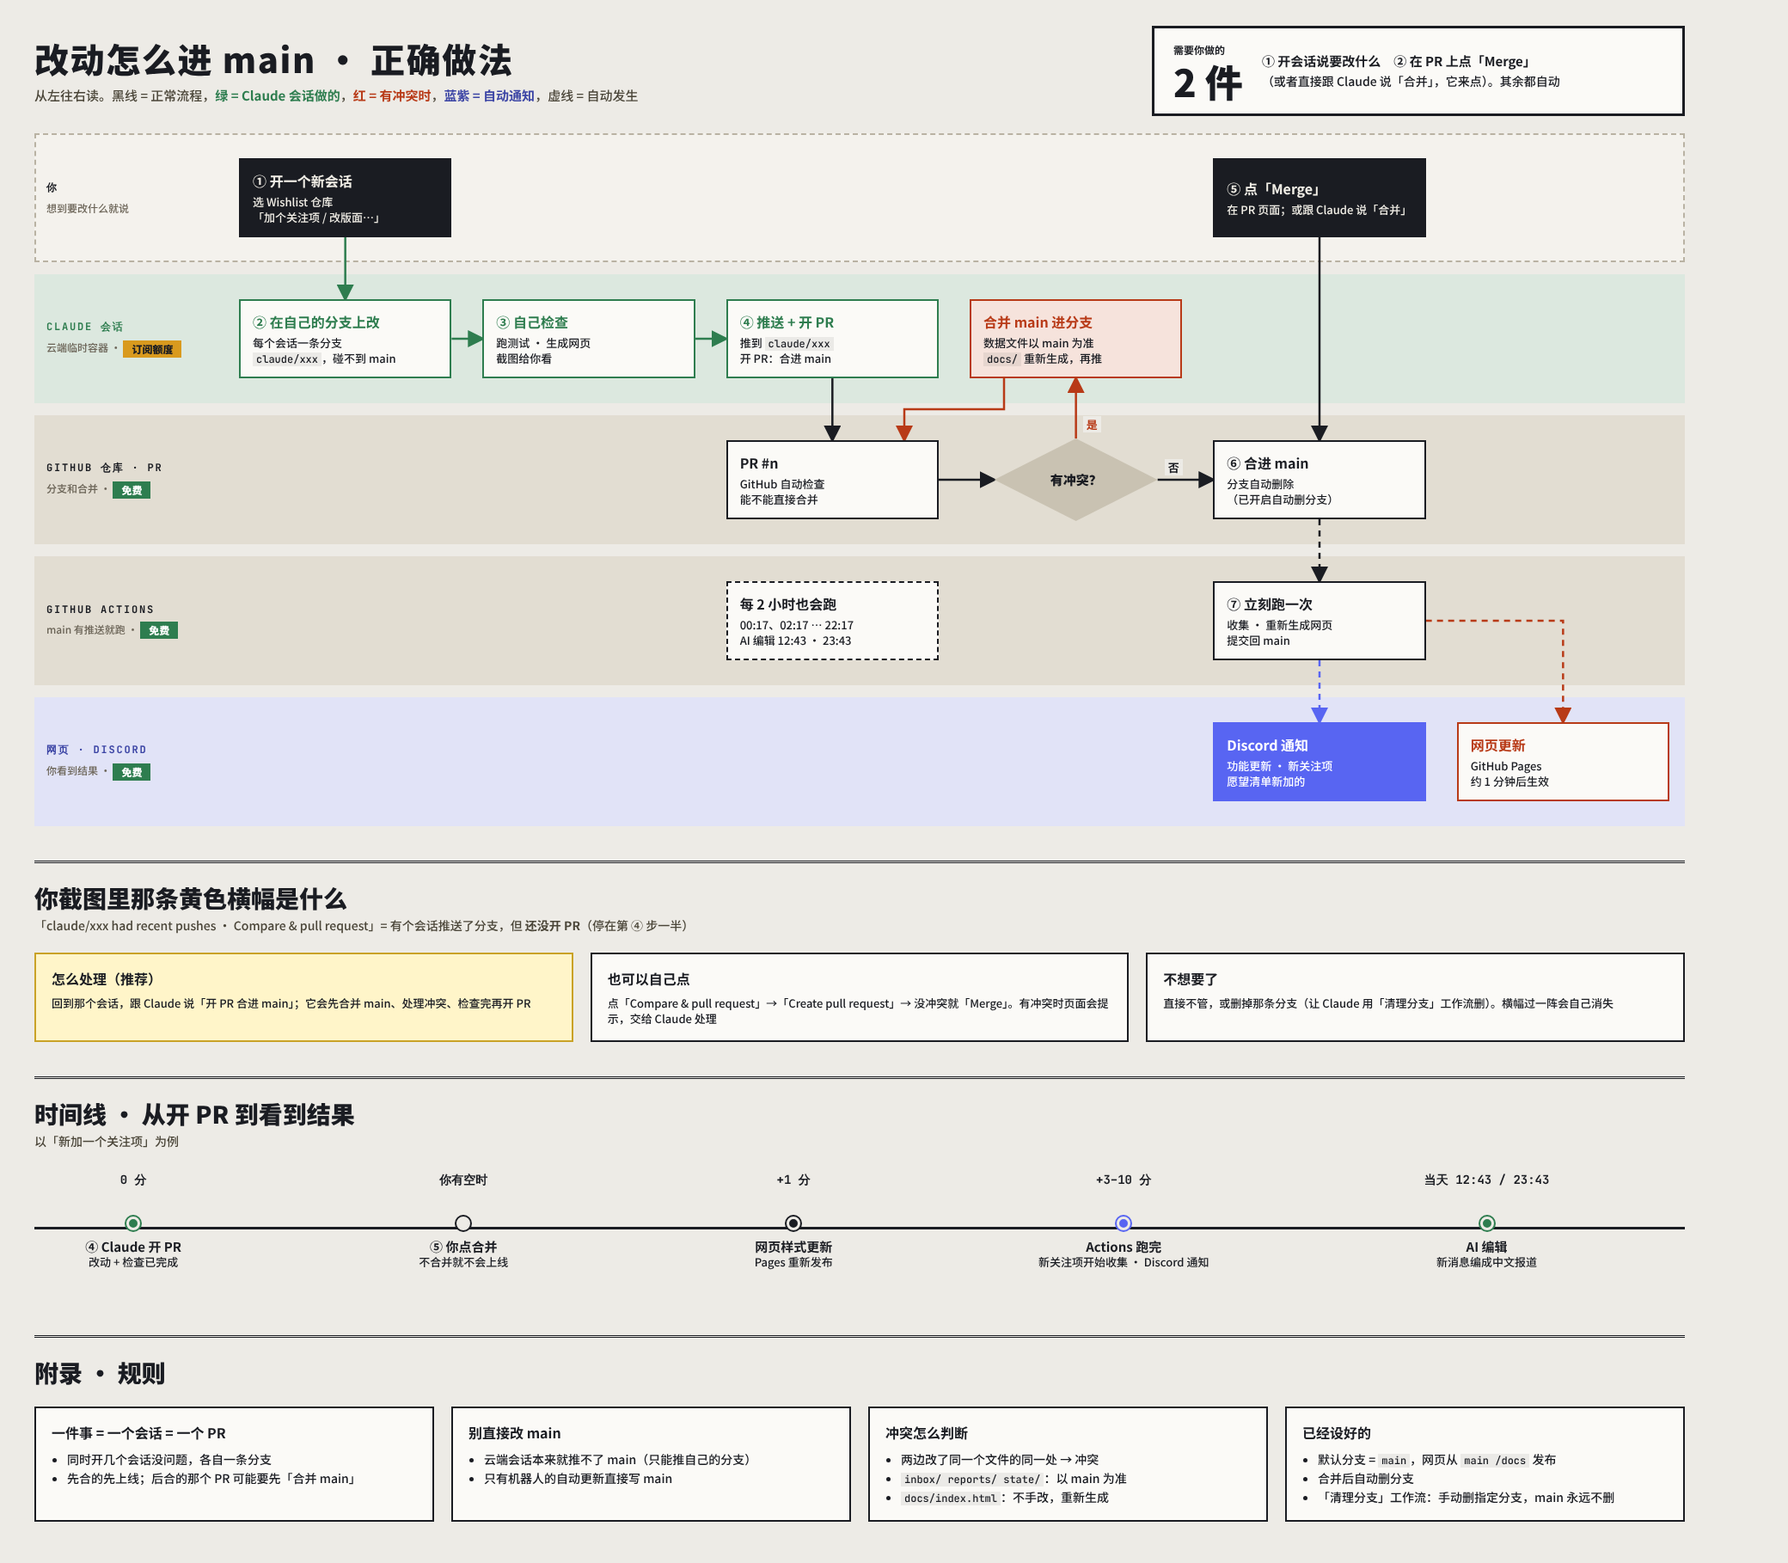
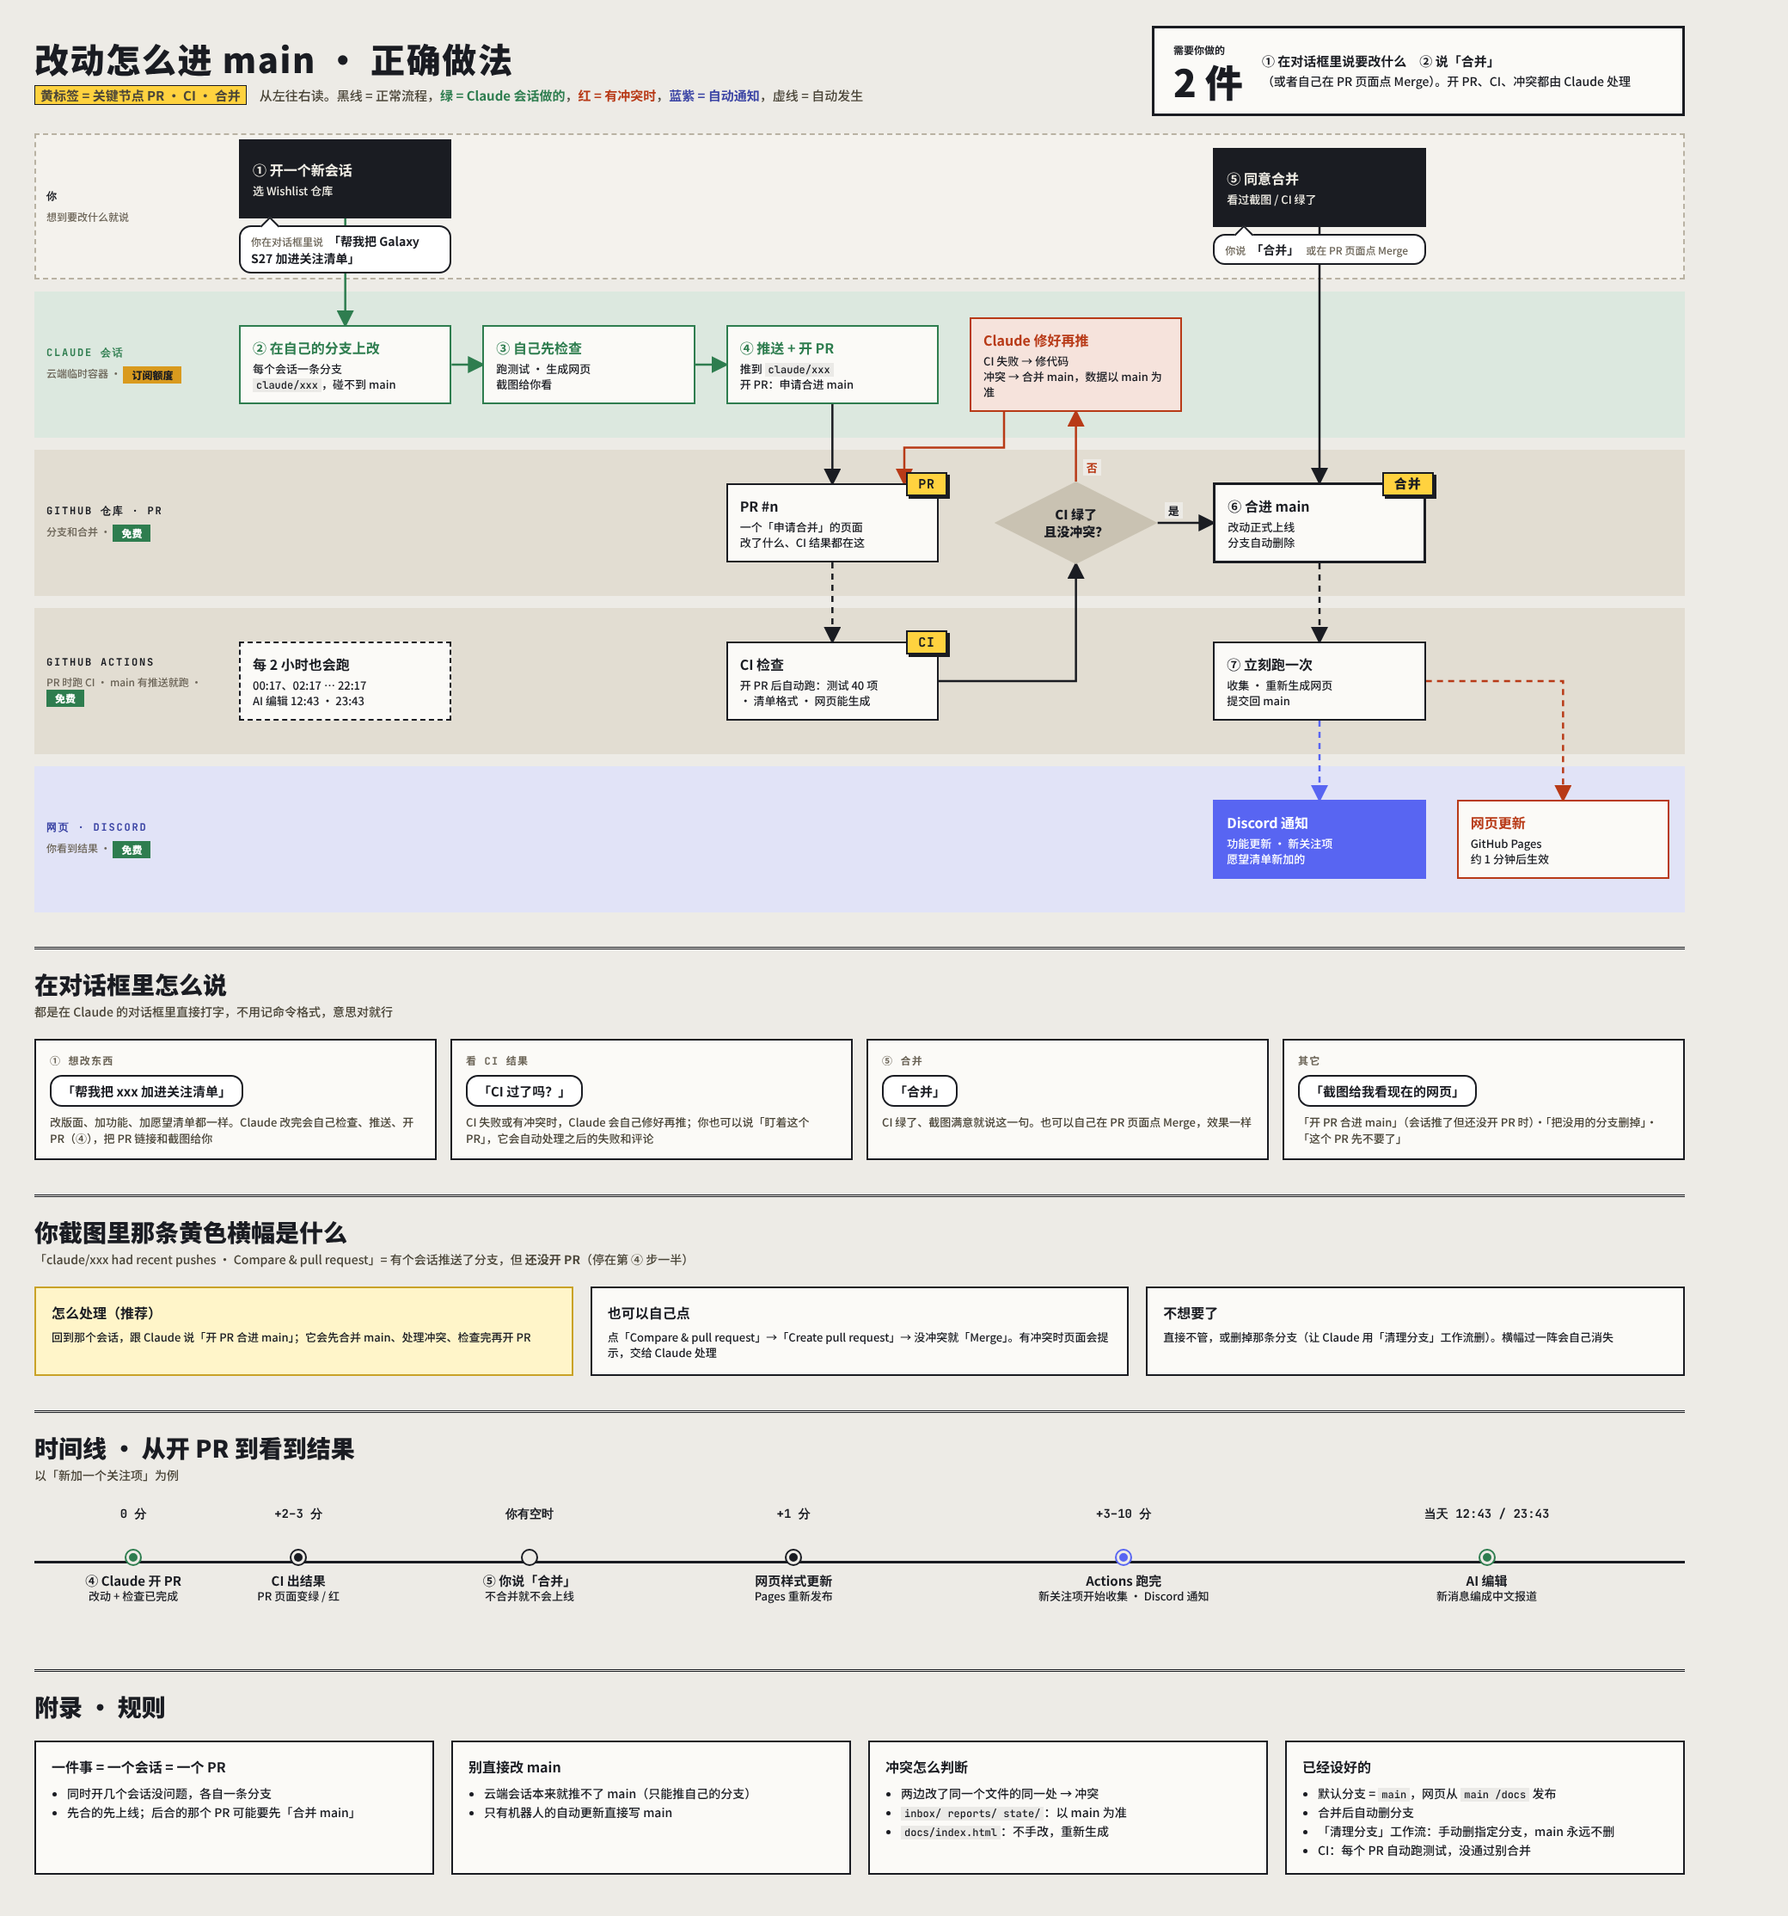
流程图标出关键节点（PR · CI · 合并）和你在对话框里说的话；新增 CI：每个 PR 自动跑测试、检查清单格式和网页生成
Claude-Session: https://claude.ai/code/session_01FYJEZVJg5QvtsQfdSyfDee

diff --git a/docs/design/pr-flow.html b/docs/design/pr-flow.html
@@ -21,7 +21,7 @@ h1{margin:0;font-size:40px;font-weight:900;letter-spacing:.04em;line-height:48px
 .tag{display:inline-block;padding:1px 10px;font-size:12px;font-weight:900;line-height:18px;color:#fff;background:var(--green);vertical-align:middle}
 .tag.gold{background:var(--gold);color:var(--ink)}
 .flow{position:relative;margin-top:34px}
-.lanes{display:grid;grid-template-columns:220px repeat(6,1fr);grid-auto-rows:150px;row-gap:14px}
+.lanes{display:grid;grid-template-columns:220px repeat(6,1fr);grid-auto-rows:170px;row-gap:14px}
 .lab{display:flex;flex-direction:column;justify-content:center;gap:6px;padding:0 14px;font:700 12px 'JetBrains Mono',monospace;letter-spacing:.15em}
 .lab span{font-family:'Noto Sans SC';letter-spacing:0;font-size:12px;font-weight:500;color:var(--sub2)}
 .row{grid-column:1/-1;grid-row:var(--r);z-index:0}
@@ -35,6 +35,18 @@ h1{margin:0;font-size:40px;font-weight:900;letter-spacing:.04em;line-height:48px
 .card.yellow{background:#FFF5C9;border-color:#C9A227}
 .card code{font:500 12px 'JetBrains Mono',monospace;background:rgba(26,28,34,.07);padding:0 4px}
 .dia{width:190px;height:96px;display:grid;place-items:center;text-align:center;background:var(--dia);clip-path:polygon(50% 0,100% 50%,50% 100%,0 50%);font-size:15px;font-weight:900;line-height:20px}
+.card{position:relative}
+.key{position:absolute;top:-15px;right:-12px;z-index:4;padding:3px 12px;background:#FFD23F;color:var(--ink);border:2px solid var(--ink);
+ font:900 15px/1.2 'JetBrains Mono','Noto Sans SC',monospace;letter-spacing:.06em;box-shadow:3px 3px 0 var(--ink)}
+.cell.col{flex-direction:column;gap:8px}
+.say{align-self:stretch;position:relative;padding:6px 12px;background:#FFF;border:2px solid var(--ink);border-radius:14px;font-size:14px;font-weight:700}
+.say::before{content:"";position:absolute;top:-9px;left:26px;width:14px;height:14px;background:#FFF;border-left:2px solid var(--ink);border-top:2px solid var(--ink);transform:rotate(45deg)}
+.say small{font-weight:500;color:var(--sub2);font-size:12px;margin-right:6px}
+.cmds{display:grid;grid-template-columns:repeat(4,1fr);gap:16px;margin-top:22px}
+.cmd{display:flex;flex-direction:column;gap:8px;padding:14px 16px;background:var(--card);border:2px solid var(--ink)}
+.cmd .w{font:700 12px 'JetBrains Mono','Noto Sans SC',monospace;letter-spacing:.1em;color:var(--sub2)}
+.cmd .q{align-self:flex-start;padding:6px 12px;background:#FFF;border:2px solid var(--ink);border-radius:14px;font-size:15px;font-weight:700}
+.cmd p{margin:0;font-size:13px;line-height:19px;color:var(--sub)}
 svg.wires{position:absolute;inset:0;width:100%;height:100%;z-index:1;overflow:visible;pointer-events:none}
 .lbl{position:absolute;z-index:3;font-size:13px;font-weight:700;background:var(--paper);padding:0 4px;white-space:nowrap}
 .sec{margin-top:40px;padding-top:22px;border-top:3px double var(--ink)}
@@ -56,9 +68,9 @@ svg.wires{position:absolute;inset:0;width:100%;height:100%;z-index:1;overflow:vi
 <body>
 <div class="board">
 <h1>改动怎么进 main · 正确做法</h1>
-<div class="legend">从左往右读。黑线 = 正常流程，<b style="color:var(--green)">绿 = Claude 会话做的</b>，<b style="color:var(--red)">红 = 有冲突时</b>，<b style="color:var(--bluetx)">蓝紫 = 自动通知</b>，虚线 = 自动发生</div>
+<div class="legend"><b style="background:#FFD23F;padding:0 6px;border:1.5px solid var(--ink)">黄标签 = 关键节点 PR · CI · 合并</b>　从左往右读。黑线 = 正常流程，<b style="color:var(--green)">绿 = Claude 会话做的</b>，<b style="color:var(--red)">红 = 有冲突时</b>，<b style="color:var(--bluetx)">蓝紫 = 自动通知</b>，虚线 = 自动发生</div>
 <div class="you"><div class="n"><small>需要你做的</small>2 件</div>
- <p><b>① 开会话说要改什么　② 在 PR 上点「Merge」</b><br>（或者直接跟 Claude 说「合并」，它来点）。其余都自动</p></div>
+ <p><b>① 在对话框里说要改什么　② 说「合并」</b><br>（或者自己在 PR 页面点 Merge）。开 PR、CI、冲突都由 Claude 处理</p></div>
 
 <div class="flow" id="flow">
 <div class="lanes">
@@ -71,28 +83,42 @@ svg.wires{position:absolute;inset:0;width:100%;height:100%;z-index:1;overflow:vi
  <div class="lab" style="grid-row:1;grid-column:1;z-index:2">你<span>想到要改什么就说</span></div>
  <div class="lab" style="grid-row:2;grid-column:1;z-index:2;color:var(--green)">CLAUDE 会话<span>云端临时容器 · <i class="tag gold" style="font-style:normal">订阅额度</i></span></div>
  <div class="lab" style="grid-row:3;grid-column:1;z-index:2">GITHUB 仓库 · PR<span>分支和合并 · <i class="tag" style="font-style:normal">免费</i></span></div>
- <div class="lab" style="grid-row:4;grid-column:1;z-index:2">GITHUB ACTIONS<span>main 有推送就跑 · <i class="tag" style="font-style:normal">免费</i></span></div>
+ <div class="lab" style="grid-row:4;grid-column:1;z-index:2">GITHUB ACTIONS<span>PR 时跑 CI · main 有推送就跑 · <i class="tag" style="font-style:normal">免费</i></span></div>
  <div class="lab" style="grid-row:5;grid-column:1;z-index:2;color:var(--bluetx)">网页 · DISCORD<span>你看到结果 · <i class="tag" style="font-style:normal">免费</i></span></div>
 
- <div class="cell" style="--r:1;--c:2"><div class="card dark" id="a1"><b>① 开一个新会话</b><span>选 Wishlist 仓库<br>「加个关注项 / 改版面…」</span></div></div>
- <div class="cell" style="--r:1;--c:6"><div class="card dark" id="a5"><b>⑤ 点「Merge」</b><span>在 PR 页面；或跟 Claude 说「合并」</span></div></div>
+ <div class="cell col" style="--r:1;--c:2"><div class="card dark" id="a1"><b>① 开一个新会话</b><span>选 Wishlist 仓库</span></div>
+  <div class="say"><small>你在对话框里说</small>「帮我把 Galaxy S27 加进关注清单」</div></div>
+ <div class="cell col" style="--r:1;--c:6"><div class="card dark" id="a5"><b>⑤ 同意合并</b><span>看过截图 / CI 绿了</span></div>
+  <div class="say"><small>你说</small>「合并」<small style="margin-left:8px">或在 PR 页面点 Merge</small></div></div>
 
  <div class="cell" style="--r:2;--c:2"><div class="card green" id="b2"><b>② 在自己的分支上改</b><span>每个会话一条分支<br><code>claude/xxx</code>，碰不到 main</span></div></div>
- <div class="cell" style="--r:2;--c:3"><div class="card green" id="b3"><b>③ 自己检查</b><span>跑测试 · 生成网页<br>截图给你看</span></div></div>
- <div class="cell" style="--r:2;--c:4"><div class="card green" id="b4"><b>④ 推送 + 开 PR</b><span>推到 <code>claude/xxx</code><br>开 PR：合进 main</span></div></div>
- <div class="cell" style="--r:2;--c:5"><div class="card red" id="b6"><b>合并 main 进分支</b><span>数据文件以 main 为准<br><code>docs/</code> 重新生成，再推</span></div></div>
+ <div class="cell" style="--r:2;--c:3"><div class="card green" id="b3"><b>③ 自己先检查</b><span>跑测试 · 生成网页<br>截图给你看</span></div></div>
+ <div class="cell" style="--r:2;--c:4"><div class="card green" id="b4"><b>④ 推送 + 开 PR</b><span>推到 <code>claude/xxx</code><br>开 PR：申请合进 main</span></div></div>
+ <div class="cell" style="--r:2;--c:5"><div class="card red" id="b6"><b>Claude 修好再推</b><span>CI 失败 → 修代码<br>冲突 → 合并 main，数据以 main 为准</span></div></div>
 
- <div class="cell" style="--r:3;--c:4"><div class="card" id="c4"><b>PR #n</b><span>GitHub 自动检查<br>能不能直接合并</span></div></div>
- <div class="cell" style="--r:3;--c:5"><div class="dia" id="d5">有冲突？</div></div>
- <div class="cell" style="--r:3;--c:6"><div class="card" id="c6"><b>⑥ 合进 main</b><span>分支自动删除<br>（已开启自动删分支）</span></div></div>
+ <div class="cell" style="--r:3;--c:4"><div class="card" id="c4"><i class="key">PR</i><b>PR #n</b><span>一个「申请合并」的页面<br>改了什么、CI 结果都在这</span></div></div>
+ <div class="cell" style="--r:3;--c:5"><div class="dia" id="d5">CI 绿了<br>且没冲突？</div></div>
+ <div class="cell" style="--r:3;--c:6"><div class="card" id="c6" style="border-width:3px"><i class="key">合并</i><b>⑥ 合进 main</b><span>改动正式上线<br>分支自动删除</span></div></div>
 
+ <div class="cell" style="--r:4;--c:2"><div class="card" id="e7" style="border-style:dashed"><b>每 2 小时也会跑</b><span>00:17、02:17 … 22:17<br>AI 编辑 12:43 · 23:43</span></div></div>
+ <div class="cell" style="--r:4;--c:4"><div class="card" id="ci"><i class="key">CI</i><b>CI 检查</b><span>开 PR 后自动跑：测试 40 项<br>· 清单格式 · 网页能生成</span></div></div>
  <div class="cell" style="--r:4;--c:6"><div class="card" id="e6"><b>⑦ 立刻跑一次</b><span>收集 · 重新生成网页<br>提交回 main</span></div></div>
- <div class="cell" style="--r:4;--c:4"><div class="card" id="e7" style="border-style:dashed"><b>每 2 小时也会跑</b><span>00:17、02:17 … 22:17<br>AI 编辑 12:43 · 23:43</span></div></div>
 
  <div class="cell" style="--r:5;--c:6"><div class="card blue" id="f6"><b>Discord 通知</b><span>功能更新 · 新关注项<br>愿望清单新加的</span></div></div>
  <div class="cell" style="--r:5;--c:7"><div class="card" id="f7" style="border-color:var(--red)"><b style="color:var(--red)">网页更新</b><span>GitHub Pages<br>约 1 分钟后生效</span></div></div>
 </div>
 <svg class="wires" id="wires"></svg>
+</div>
+
+<div class="sec">
+ <h2>在对话框里怎么说</h2>
+ <div class="hint">都是在 Claude 的对话框里直接打字，不用记命令格式，意思对就行</div>
+ <div class="cmds">
+  <div class="cmd"><span class="w">① 想改东西</span><span class="q">「帮我把 xxx 加进关注清单」</span><p>改版面、加功能、加愿望清单都一样。Claude 改完会自己检查、推送、开 PR（④），把 PR 链接和截图给你</p></div>
+  <div class="cmd"><span class="w">看 CI 结果</span><span class="q">「CI 过了吗？」</span><p>CI 失败或有冲突时，Claude 会自己修好再推；你也可以说「盯着这个 PR」，它会自动处理之后的失败和评论</p></div>
+  <div class="cmd"><span class="w">⑤ 合并</span><span class="q">「合并」</span><p>CI 绿了、截图满意就说这一句。也可以自己在 PR 页面点 Merge，效果一样</p></div>
+  <div class="cmd"><span class="w">其它</span><span class="q">「截图给我看现在的网页」</span><p>「开 PR 合进 main」（会话推了但还没开 PR 时）·「把没用的分支删掉」·「这个 PR 先不要了」</p></div>
+ </div>
 </div>
 
 <div class="sec">
@@ -111,7 +137,8 @@ svg.wires{position:absolute;inset:0;width:100%;height:100%;z-index:1;overflow:vi
  <div class="time">
   <div class="axis"></div>
   <div class="tick g" style="left:6%"><span class="t">0 分</span><i></i><div class="d"><b>④ Claude 开 PR</b>改动 + 检查已完成</div></div>
-  <div class="tick k" style="left:26%"><span class="t">你有空时</span><i></i><div class="d"><b>⑤ 你点合并</b>不合并就不会上线</div></div>
+  <div class="tick" style="left:16%"><span class="t">+2–3 分</span><i></i><div class="d"><b>CI 出结果</b>PR 页面变绿 / 红</div></div>
+  <div class="tick k" style="left:30%"><span class="t">你有空时</span><i></i><div class="d"><b>⑤ 你说「合并」</b>不合并就不会上线</div></div>
   <div class="tick" style="left:46%"><span class="t">+1 分</span><i></i><div class="d"><b>网页样式更新</b>Pages 重新发布</div></div>
   <div class="tick b" style="left:66%"><span class="t">+3–10 分</span><i></i><div class="d"><b>Actions 跑完</b>新关注项开始收集 · Discord 通知</div></div>
   <div class="tick g" style="left:88%"><span class="t">当天 12:43 / 23:43</span><i></i><div class="d"><b>AI 编辑</b>新消息编成中文报道</div></div>
@@ -124,7 +151,7 @@ svg.wires{position:absolute;inset:0;width:100%;height:100%;z-index:1;overflow:vi
   <div class="card"><b>一件事 = 一个会话 = 一个 PR</b><ul><li>同时开几个会话没问题，各自一条分支</li><li>先合的先上线；后合的那个 PR 可能要先「合并 main」</li></ul></div>
   <div class="card"><b>别直接改 main</b><ul><li>云端会话本来就推不了 main（只能推自己的分支）</li><li>只有机器人的自动更新直接写 main</li></ul></div>
   <div class="card"><b>冲突怎么判断</b><ul><li>两边改了同一个文件的同一处 → 冲突</li><li><code>inbox/ reports/ state/</code>：以 main 为准</li><li><code>docs/index.html</code>：不手改，重新生成</li></ul></div>
-  <div class="card"><b>已经设好的</b><ul><li>默认分支 = <code>main</code>，网页从 <code>main /docs</code> 发布</li><li>合并后自动删分支</li><li>「清理分支」工作流：手动删指定分支，main 永远不删</li></ul></div>
+  <div class="card"><b>已经设好的</b><ul><li>默认分支 = <code>main</code>，网页从 <code>main /docs</code> 发布</li><li>合并后自动删分支</li><li>「清理分支」工作流：手动删指定分支，main 永远不删</li><li>CI：每个 PR 自动跑测试，没通过别合并</li></ul></div>
  </div>
 </div>
 </div>
@@ -133,8 +160,8 @@ svg.wires{position:absolute;inset:0;width:100%;height:100%;z-index:1;overflow:vi
 // 箭头：同一行从右边连到左边；跨行从下 / 上边中点走折线
 const wires = [
   ["a1","b2","#2E7D4F"], ["b2","b3","#2E7D4F"], ["b3","b4","#2E7D4F"], ["b4","c4","#1A1C22"],
-  ["c4","d5","#1A1C22"], ["d5","b6","#B83A17","是"], ["b6","c4","#B83A17","","loop"],
-  ["d5","c6","#1A1C22","否"], ["a5","c6","#1A1C22","","down"], ["c6","e6","#1A1C22","","down",true],
+  ["c4","ci","#1A1C22","","down",true], ["ci","d5","#1A1C22","","toDia"], ["d5","b6","#B83A17","否"], ["b6","c4","#B83A17","","loop"],
+  ["d5","c6","#1A1C22","是"], ["a5","c6","#1A1C22","","down"], ["c6","e6","#1A1C22","","down",true],
   ["e6","f6","#5865F2","","down",true], ["e6","f7","#B83A17","","corner",true]
 ];
 function draw(){
@@ -149,6 +176,7 @@ function draw(){
     if(mode==='down'){d=`M${B.cx} ${A.b} L${B.cx} ${B.t-2}`; if(A.cx!==B.cx) d=`M${A.cx} ${A.b} L${A.cx} ${(A.b+B.t)/2} L${B.cx} ${(A.b+B.t)/2} L${B.cx} ${B.t-2}`;}
     else if(mode==='up'){d=`M${A.cx+40} ${A.t} L${A.cx+40} ${(A.t+B.b)/2+40} L${B.l+30} ${(A.t+B.b)/2+40} L${B.l+30} ${B.b+2}`;}
     else if(mode==='corner'){d=`M${A.r} ${A.cy} L${B.cx} ${A.cy} L${B.cx} ${B.t-2}`;}
+    else if(mode==='toDia'){d=`M${A.r} ${A.cy} L${B.cx} ${A.cy} L${B.cx} ${B.b+2}`;}
     else if(mode==='loop'){const y=(A.b+B.t)/2; d=`M${A.l+40} ${A.b} L${A.l+40} ${y} L${B.r-40} ${y} L${B.r-40} ${B.t-2}`;}
     else if(Math.abs(A.cy-B.cy)<4){d=`M${A.r} ${A.cy} L${B.l-2} ${B.cy}`;}
     else if(B.cy<A.cy){d=`M${A.cx} ${A.t} L${A.cx} ${B.b+2}`; if(Math.abs(A.cx-B.cx)>4) d=`M${A.cx} ${A.t} L${A.cx} ${(A.t+B.b)/2} L${B.cx} ${(A.t+B.b)/2} L${B.cx} ${B.b+2}`;}
